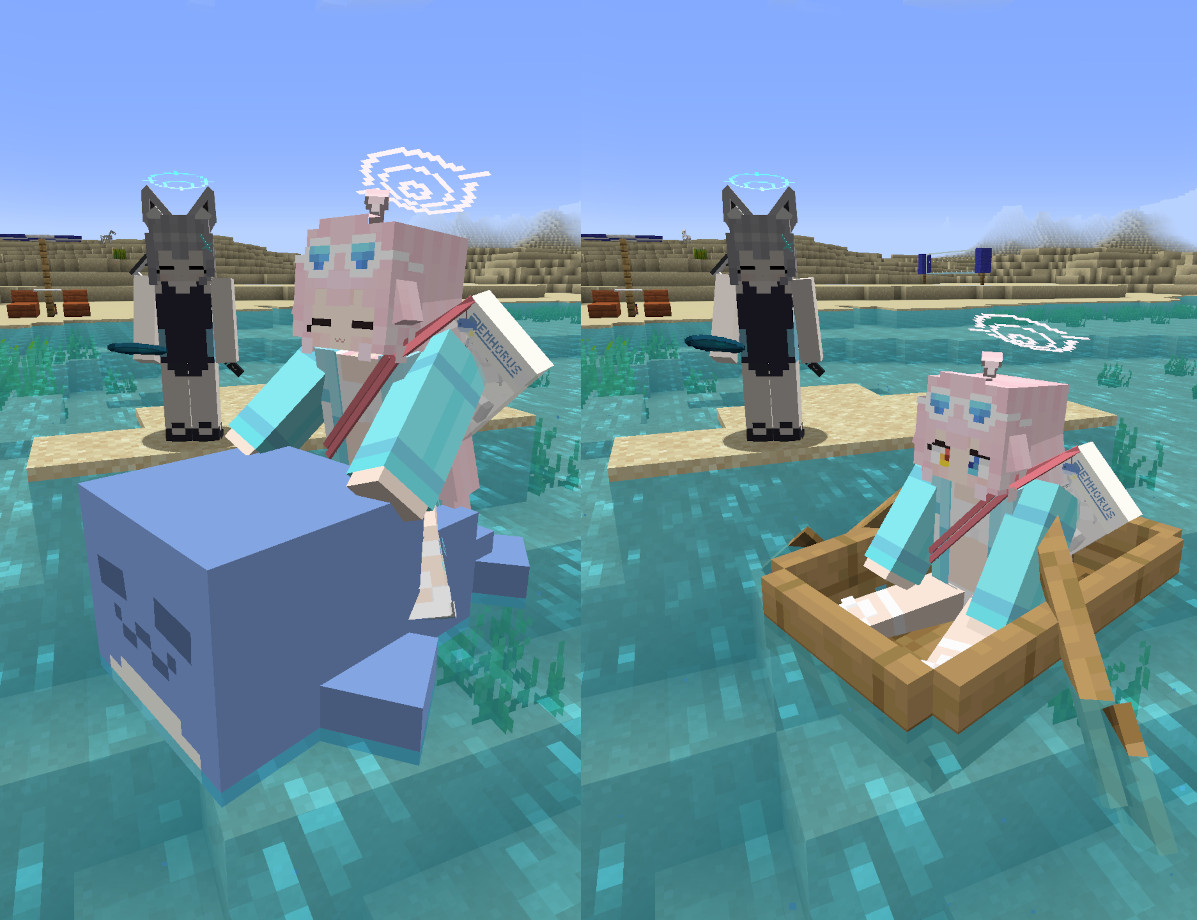
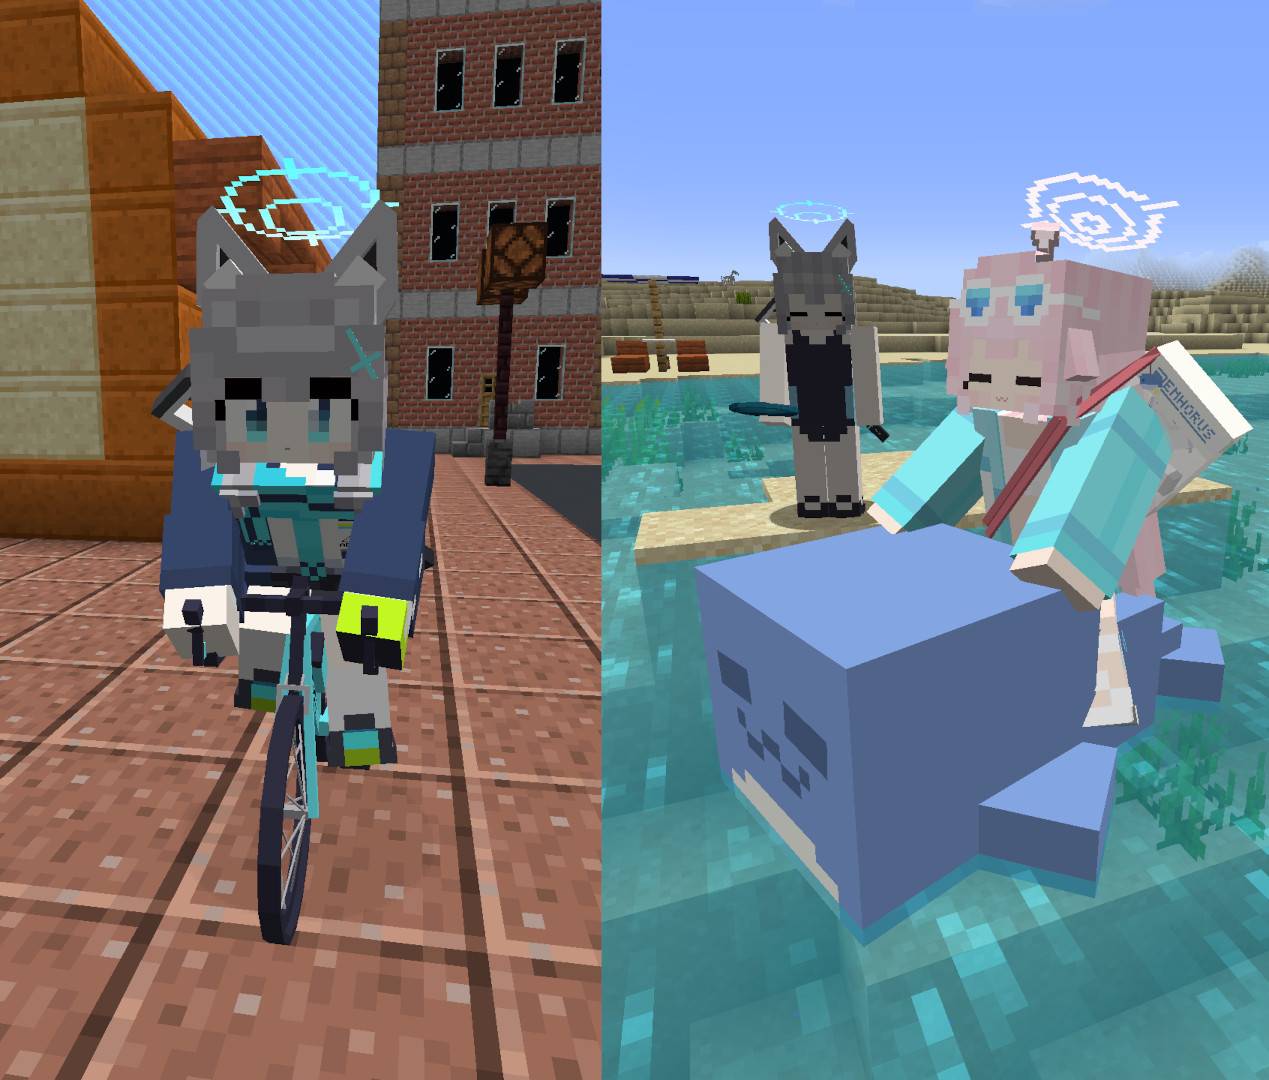
特徴の項に乗り物モデルの記述を追加

diff --git a/.github/README_templates/jp.md b/.github/README_templates/jp.md
@@ -52,6 +52,10 @@
 
   ![衣装](../README_images/costume.jpg)
 
+- 一部の生徒には、ゲーム内の乗り物向けの固有モデルがあります。
+
+  ![乗り物モデル](../README_images/vehicle_model.jpg)
+
 - プレイヤーの名前を生徒の名前にすることができます。
   - 部活名を表示することもできます。
   - 他のプレイヤーがこの名前を見えるようにするには、**他のプレイヤーもFiguraを導入し、他のプレイヤー側であなたに対する信頼設定を十分上げる必要があります。**
@@ -108,7 +112,7 @@ Exスキルアニメーション中に表示される赤や青の枠から出現
 ### アクション6. 乗り物モデルの置き換えの切り替え
 一部生徒の「ゲーム内の乗り物に乗った時にそのモデルを置き換える」機能を有効にするか無効にするかを切り替えます。乗り物モデルの置き換えがない生徒ではこのオプションが無効化されています。
 
-![乗り物モデル](../README_images/vehicle_model.jpg)
+![乗り物モデル](../README_images/vehicle_model_2.jpg)
 
 <!-- $inject(how_to_use) -->
 

diff --git a/.github/README_templates/en.md b/.github/README_templates/en.md
@@ -52,6 +52,10 @@ Target figura version: [0.1.4](https://modrinth.com/mod/figura/version/0.1.4+1.2
 
   ![Costume](../README_images/costume.jpg)
 
+- Some characters have unique models for in-game vehicles.
+
+  ![Vehicle models](../README_images/vehicle_model.jpg)
+
 - Can change your display name to the character's name.
   - Can also display the club name which the character is participated in.
   - **Other players also need to install Figura and give enough permissions** to see your display name.
@@ -107,10 +111,10 @@ Changes the amount of triangular particles that appear from the red or blue bord
 
 As an additional option, I have added an option to disable the frame during the Ex skill animations. This is the closest to the original one.
 
-### Action6. Toggle vehicle models
+### Action 6. Toggle vehicle models
 Toggles the vehicle models replacement feature for some characters. This option is disabled for characters with no vehicle models.
 
-![Vehicle models](../README_images/vehicle_model.jpg)
+![Vehicle models](../README_images/vehicle_model_2.jpg)
 
 <!-- $inject(how_to_use) -->
 
